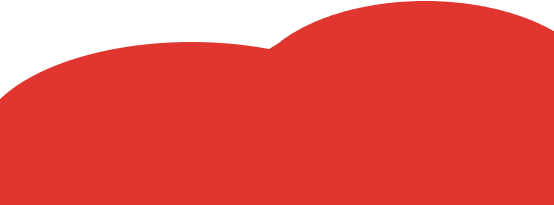
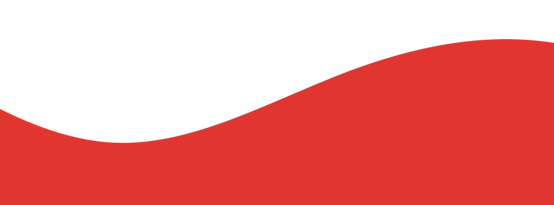
Minor Changes
floor image updated, minor fixes :D

Changed region(s): [[0.0, 0.0, 1.0, 0.7024]]

diff --git a/scouting/Welcome.jsx b/scouting/Welcome.jsx
@@ -102,9 +102,9 @@ const styles = StyleSheet.create({
 
         // Size is 100% of its parent and not itself due to position: absolute
         width: '100%',
-        height: '100%',
+        height: '50%',
         zIndex: 1,
-        bottom: -50,
+        bottom: 76,
     },
     // whitespace on robbie (not due to code)
     robbie: {

diff --git a/scouting/navigation/search-nav/SearchRobots.jsx b/scouting/navigation/search-nav/SearchRobots.jsx
@@ -61,7 +61,8 @@ const styles = StyleSheet.create({
       alignItems: 'center',
     },
     getStarted: {
-      minHeight: '15%',
+      maxHeight: '15%',
+      backgroundColor: '#E1584B',
       width: '100%',
     },
     searchSection: {

diff --git a/scouting/navigation/record-nav/RecordGame.jsx b/scouting/navigation/record-nav/RecordGame.jsx
@@ -188,7 +188,7 @@ const styles = StyleSheet.create({
         backgroundColor: 'white',
 
         paddingTop: 20,
-        paddingBottom: 20,
+        paddingBottom: 10,
     },
     header: {
         width: '100%',
